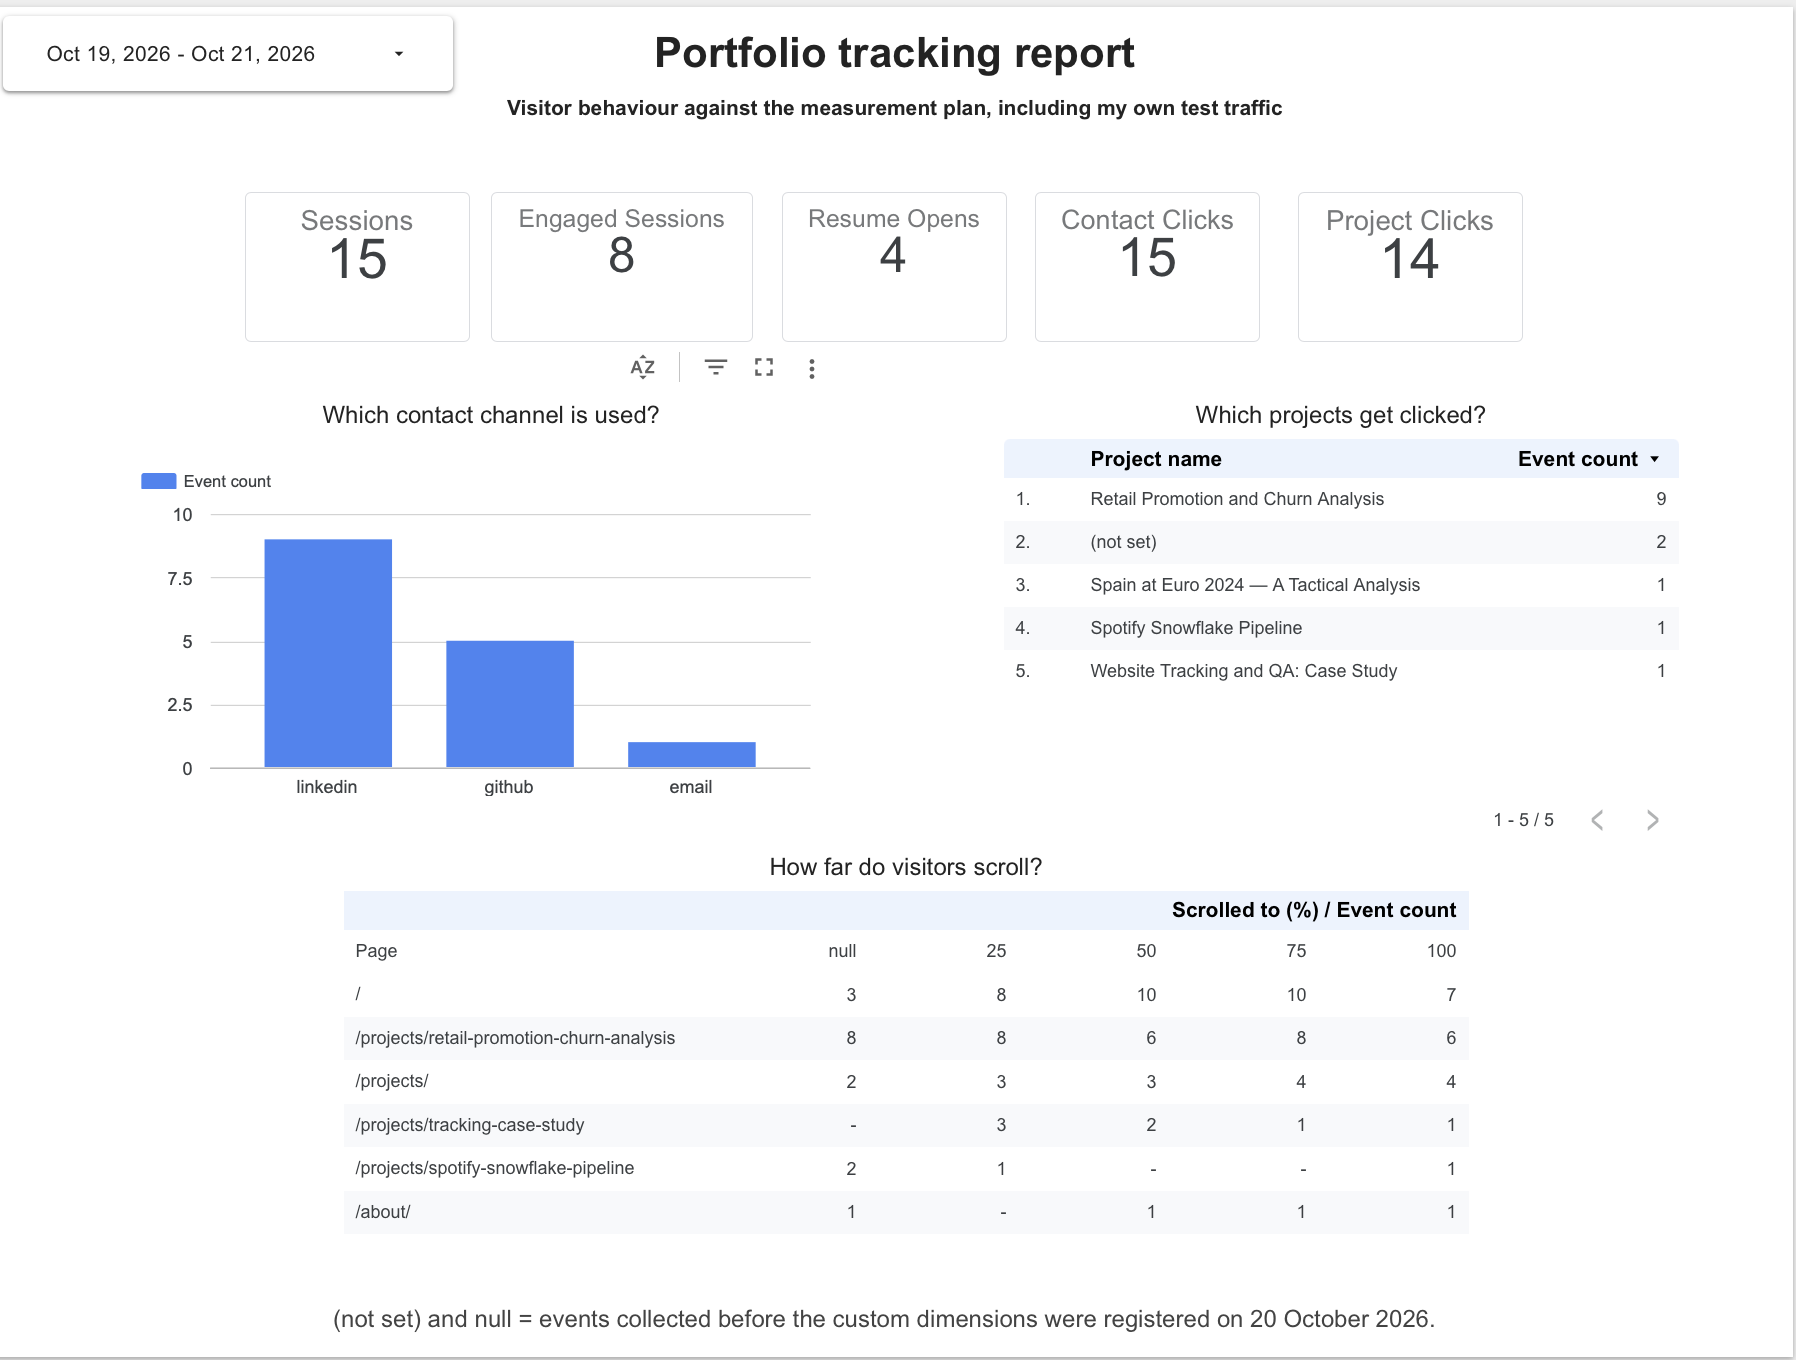
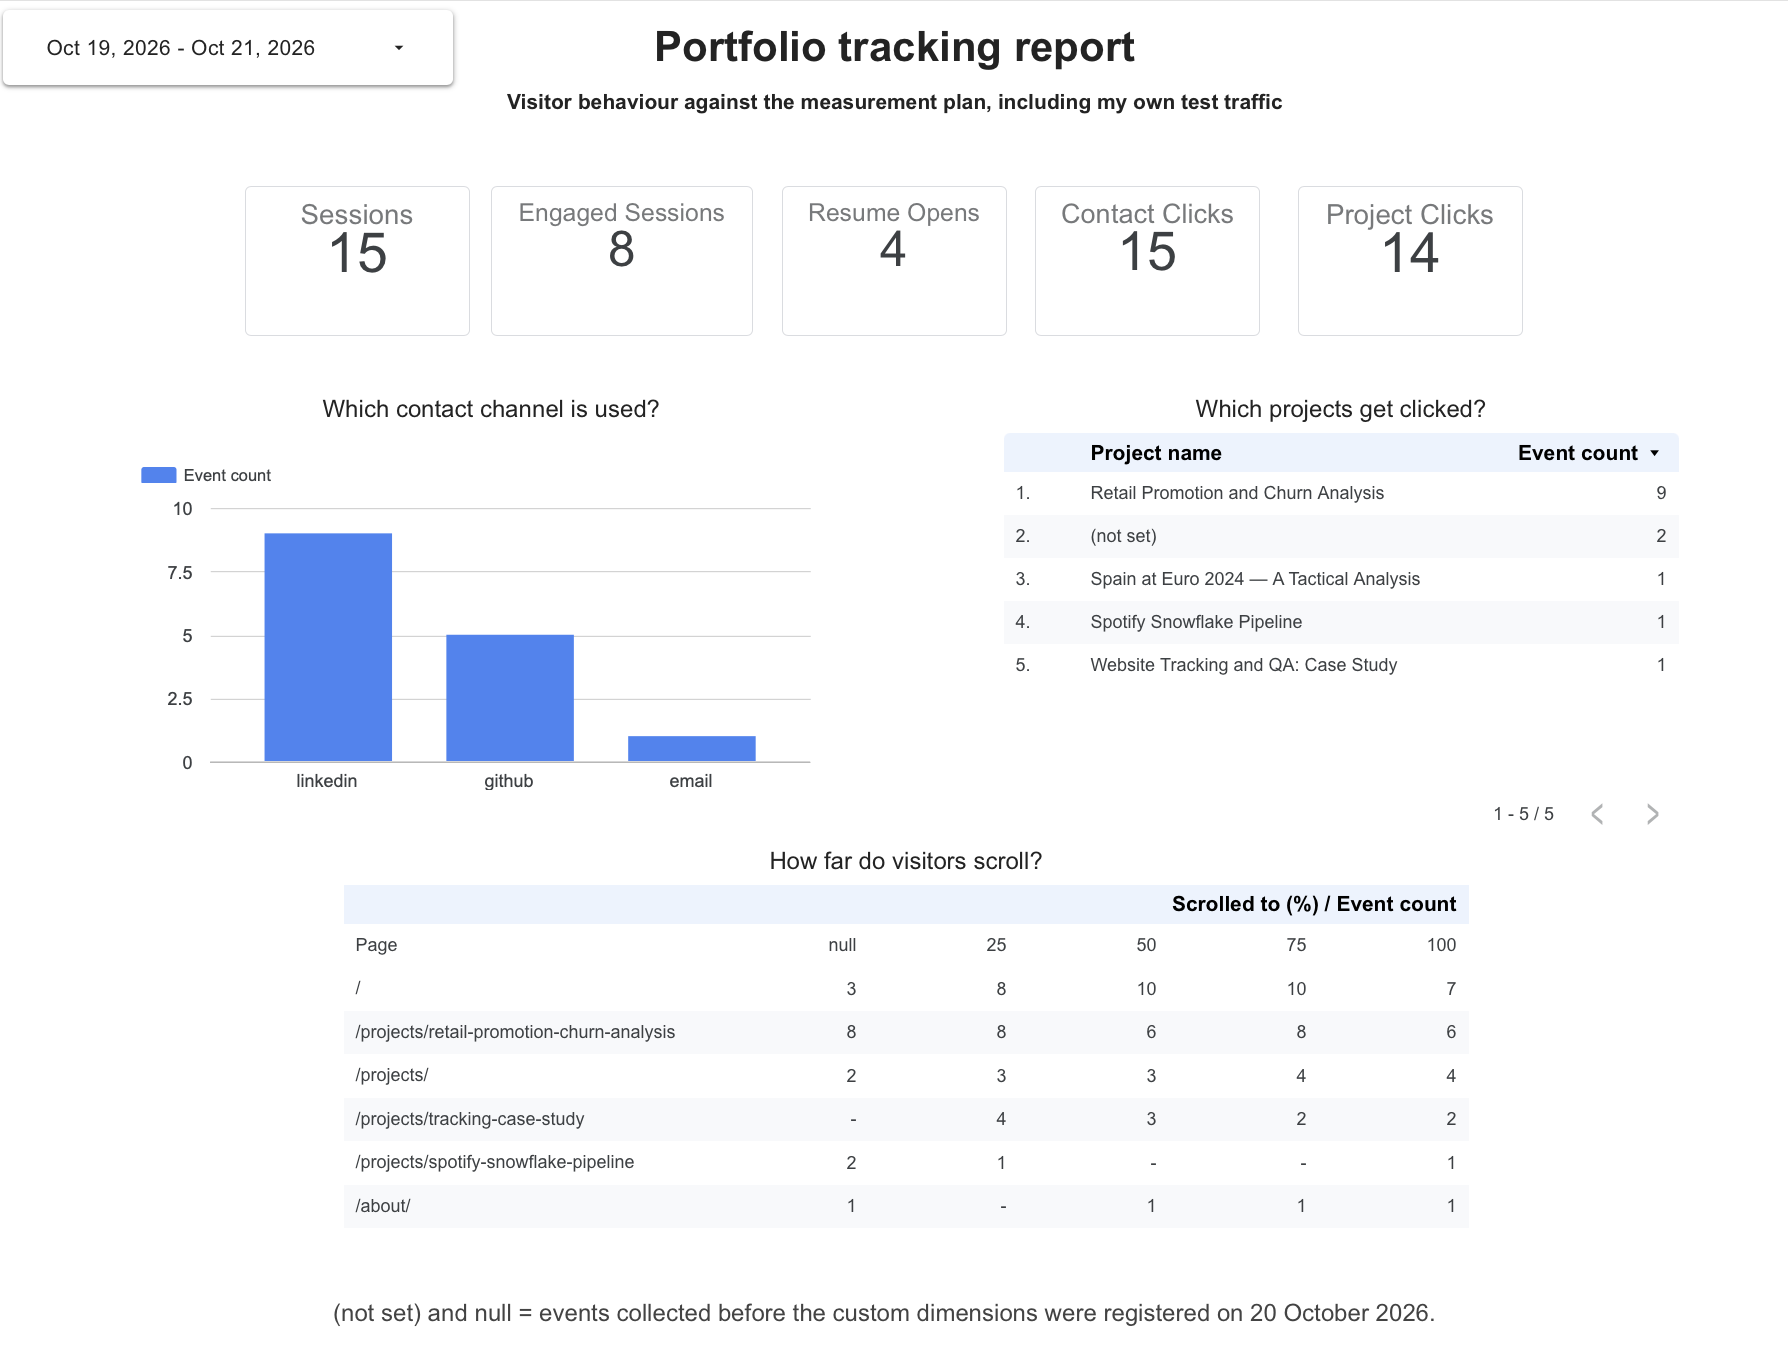
Fix Key Findings headings, update report image

diff --git a/_projects/tracking-case-study.md b/_projects/tracking-case-study.md
@@ -30,7 +30,7 @@ Portfolio scale, not client work: traffic is low, counts include my own test cli
 
 ## Key Findings
 
-**A tag can succeed while a parameter is missing**
+**A tag can succeed while a parameter is missing.**
 After the key rename, the GTM tag still reported Succeeded and GA4 received the event, but without `link_location`. Tag Assistant showed the variable as undefined and DebugView showed the parameter missing.
 
 ```
@@ -42,10 +42,10 @@ Tag Assistant: DLV - link_location = undefined
 DebugView: link_location absent from the event
 ```
 
-**Automatic and custom events overlapped**
+**Automatic and custom events overlapped.**
 GA4 Enhanced Measurement counted clicks, file downloads and scrolls alongside the custom events, so the same interactions were measured twice under different event names. I switched the three automatic events off once the custom ones passed QA.
 
-**An event name can overstate what it measures**
+**An event name can overstate what it measures.**
 `resume_download` counts opens of the resume in a new tab, not confirmed saves, so the definition says so.
 
 ## Recommendations
